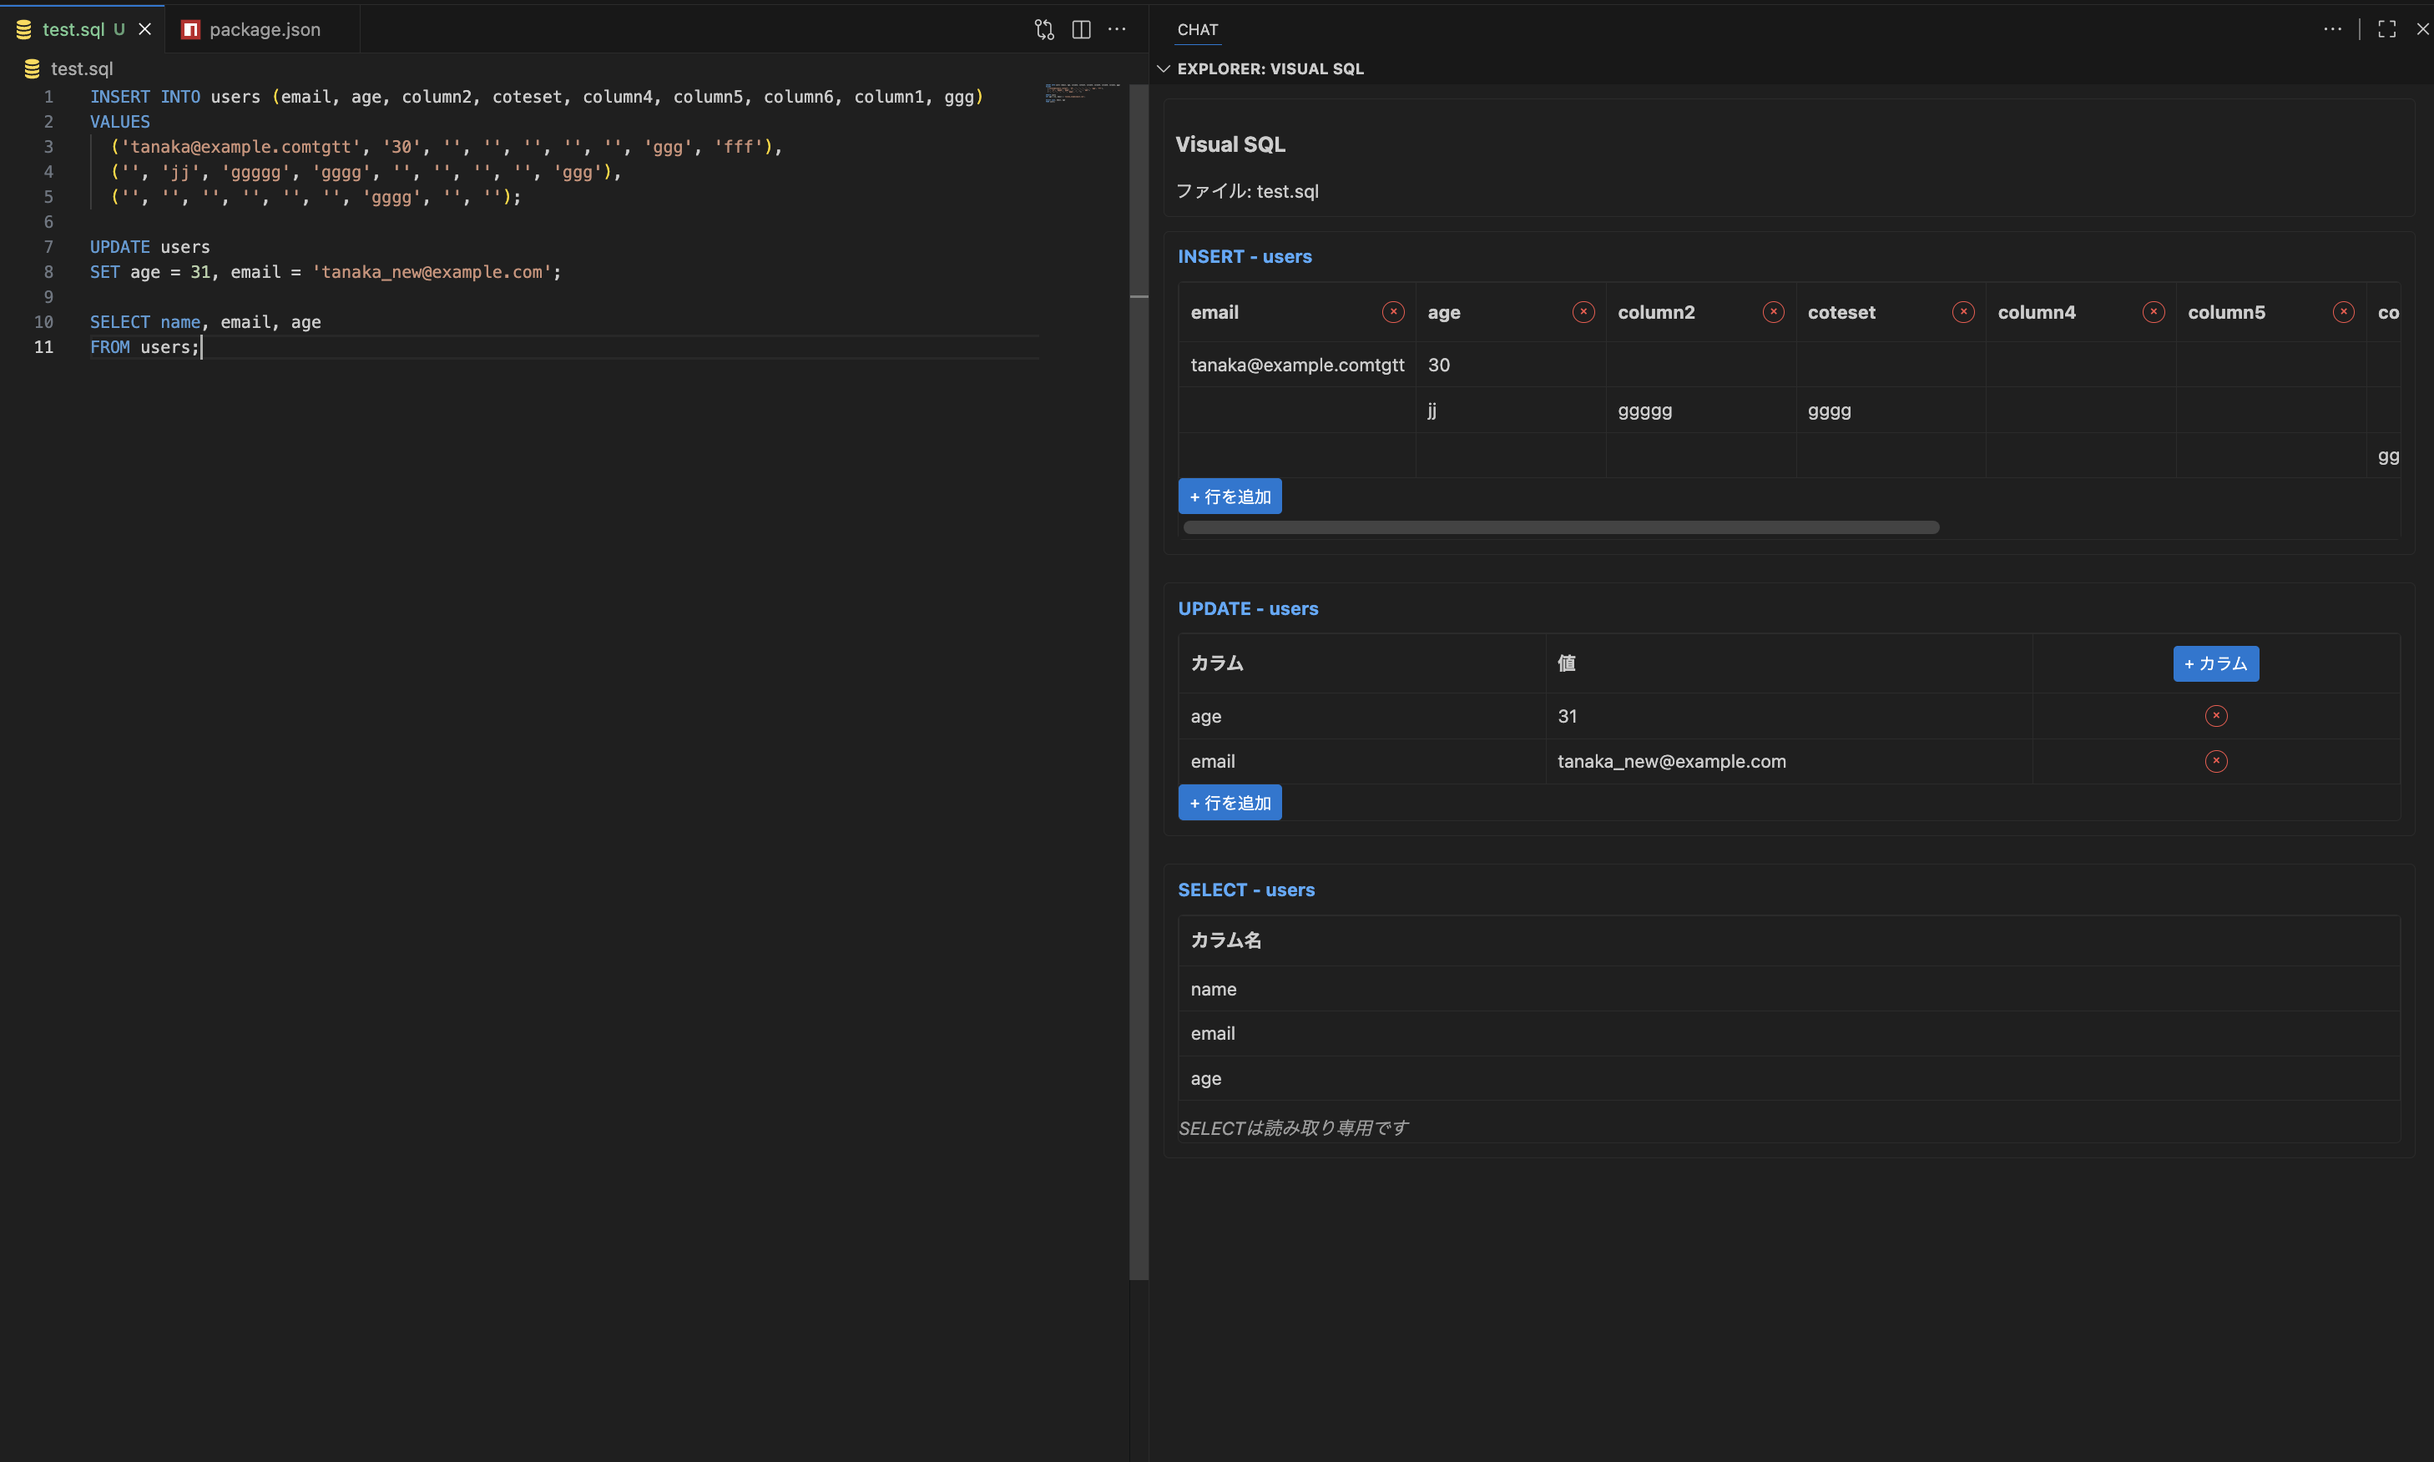
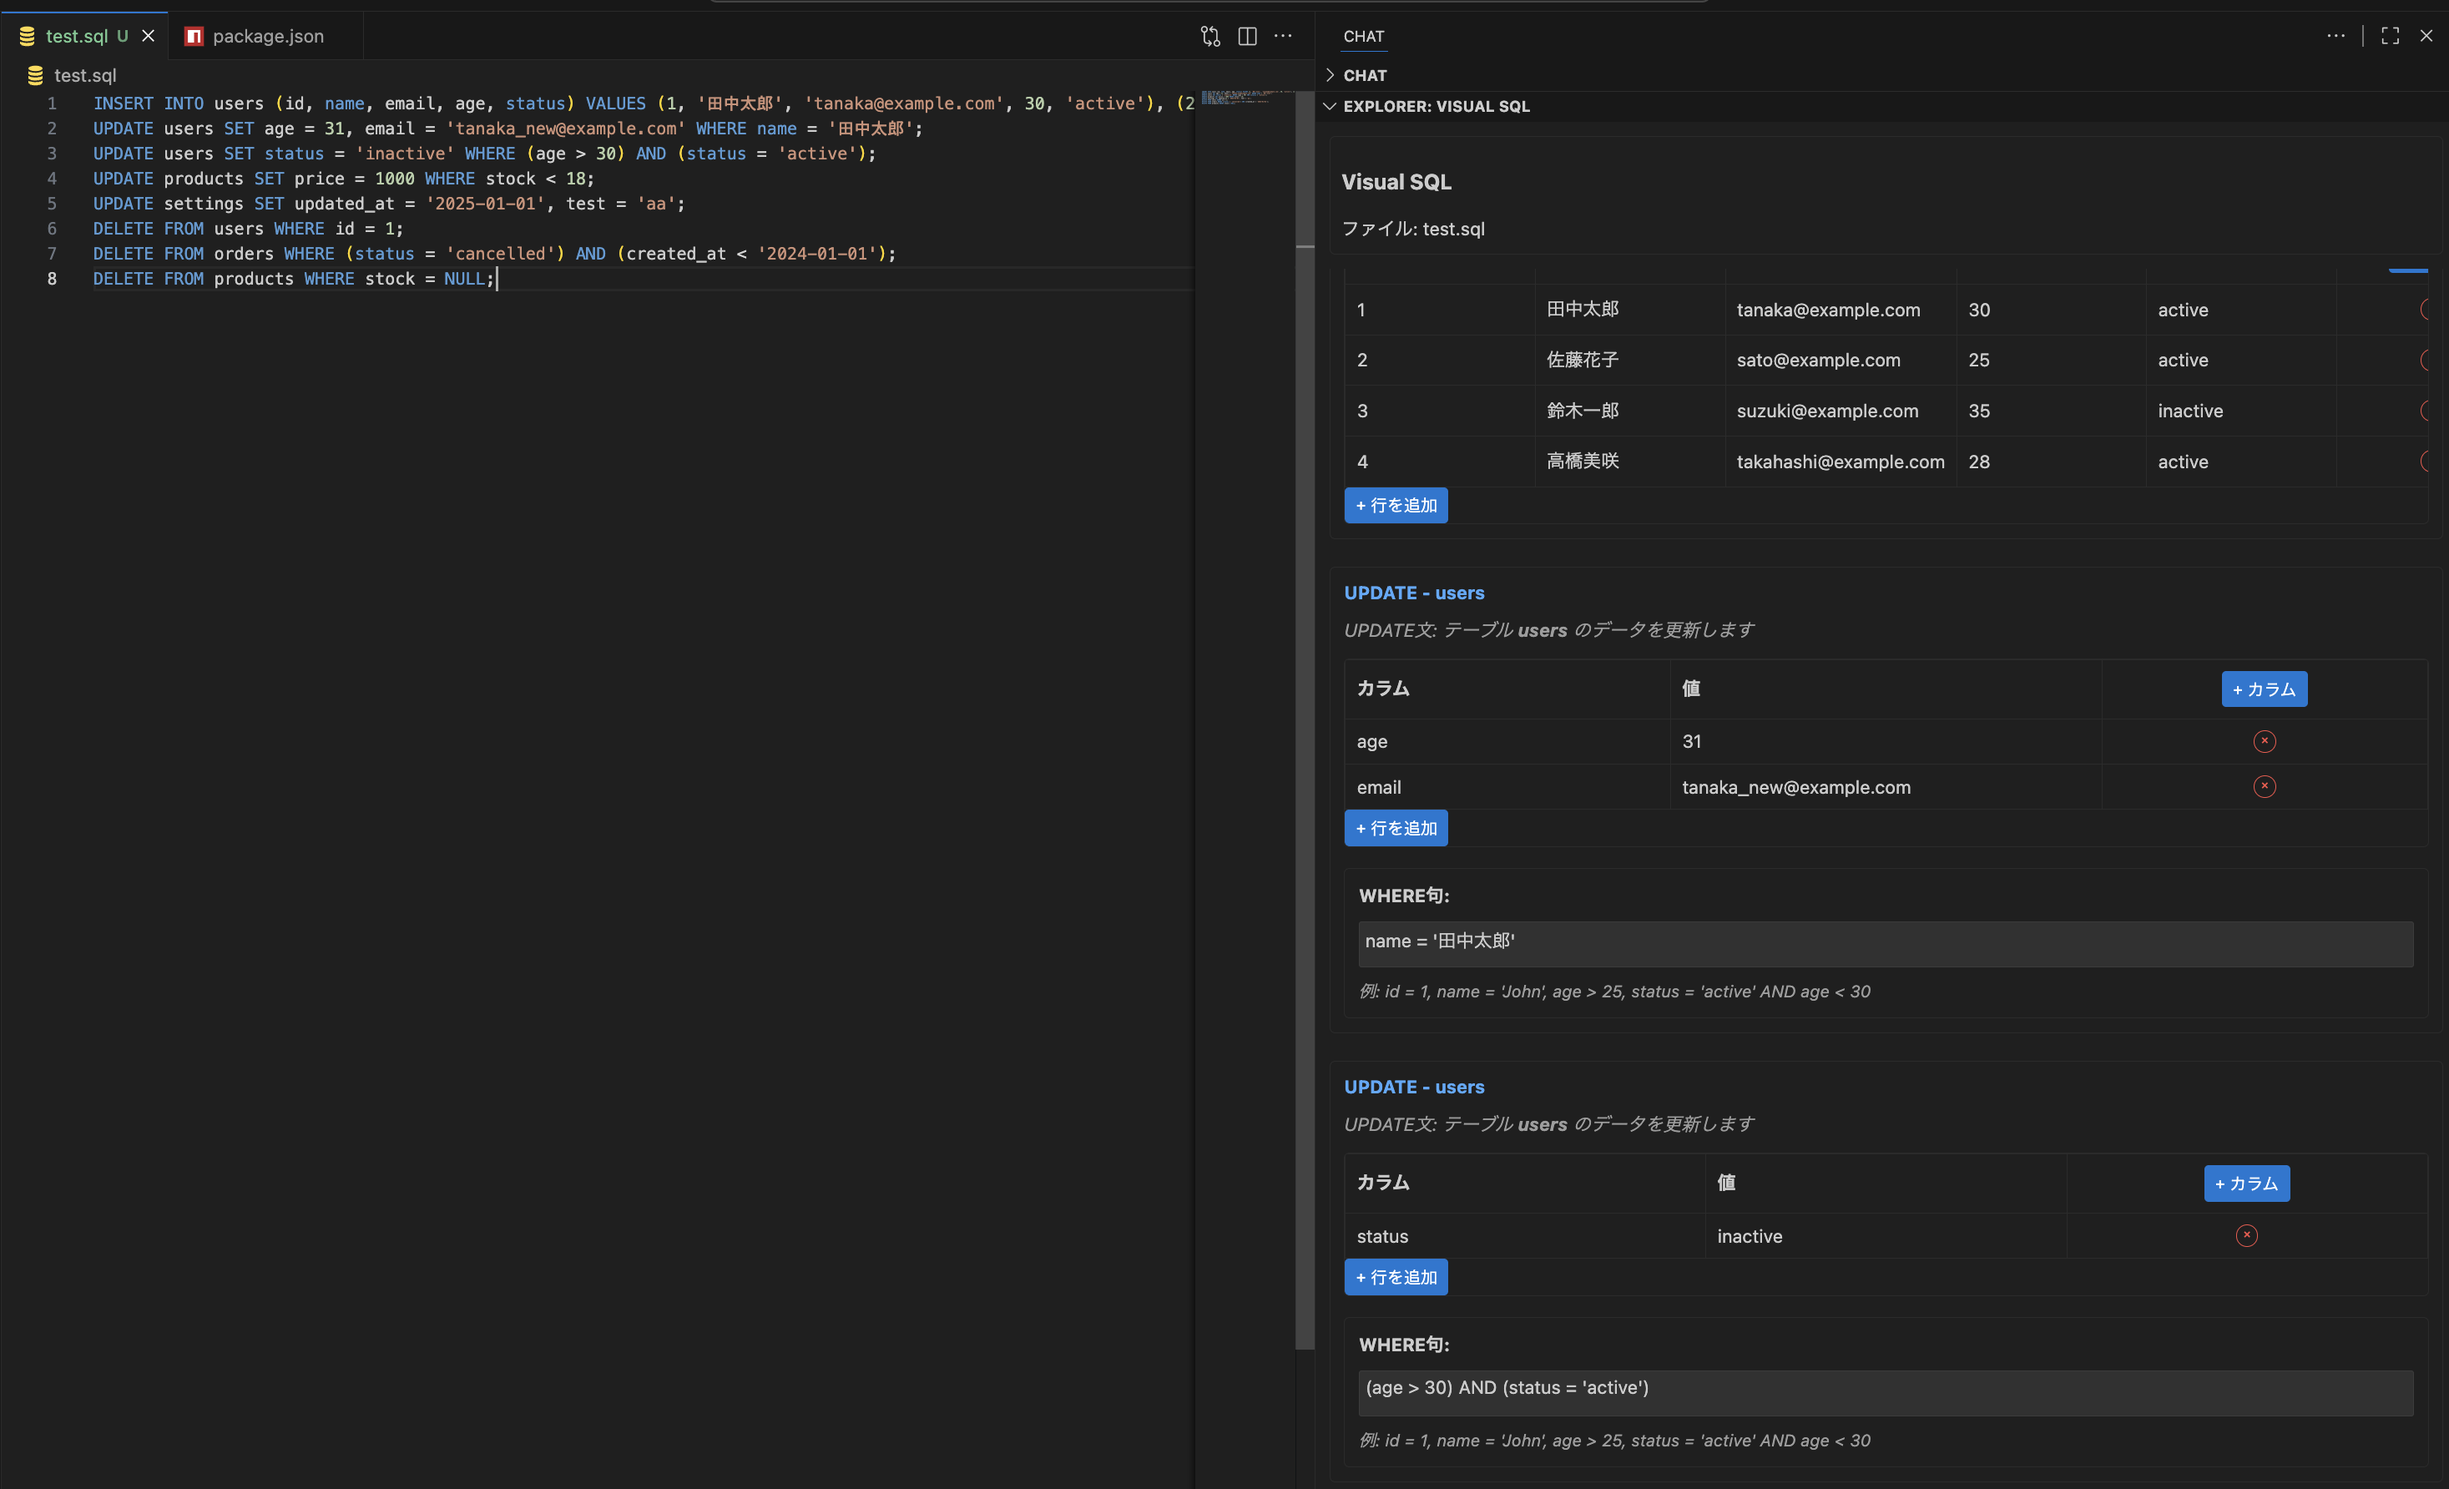
for v0.0.3

diff --git a/README.md b/README.md
@@ -7,6 +7,7 @@ View and edit SQL files in a table format directly in VS Code.
 - View INSERT, UPDATE, and SELECT statements as tables
 - Edit cells directly by clicking them
 - Add or remove rows and columns
+- Edit WHERE clauses (add, edit, delete, and validate)
 - Auto-saves changes back to your SQL file
 
 ## Usage
@@ -18,7 +19,8 @@ View and edit SQL files in a table format directly in VS Code.
 ## Supported SQL
 
 - INSERT INTO - read/write
-- UPDATE - read/write
+- UPDATE - read/write (including WHERE clause)
+- DELETE - read/write (including WHERE clause)
 - SELECT - read-only
 
 ## Screenshot
@@ -34,6 +36,13 @@ View and edit SQL files in a table format directly in VS Code.
 Report bugs on GitHub
 
 ## Release Notes
+
+### 0.0.3
+
+- Added support for WHERE clause validation
+- Added support for WHERE clause addition
+- Added support for WHERE clause editing
+- Added support for WHERE clause deletion
 
 ### 0.0.2
 
